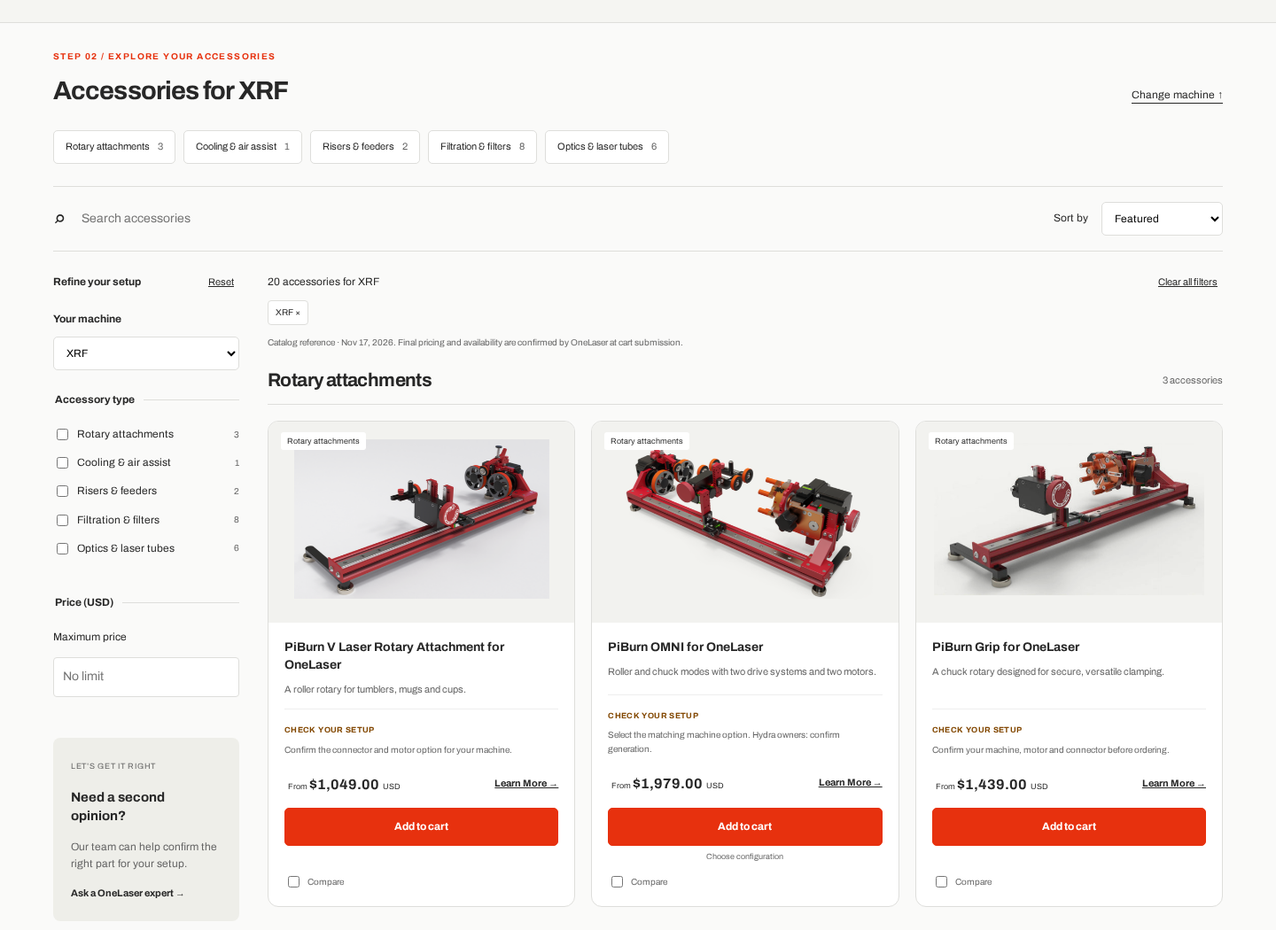
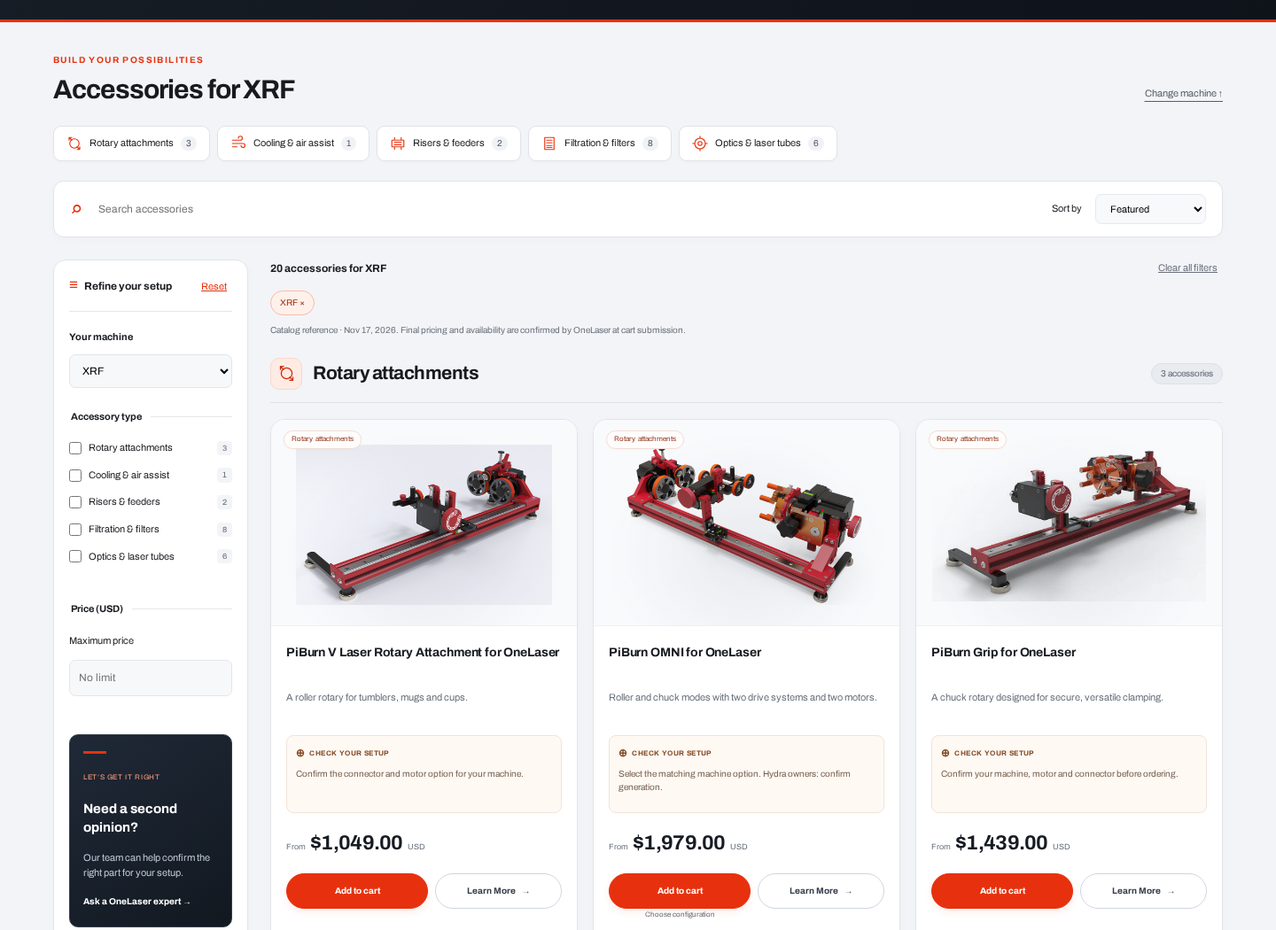
Refresh accessories UI with OneLaser brand, machine photography and richer product cards

diff --git a/assets/accessories-brand.css b/assets/accessories-brand.css
@@ -1,0 +1,12 @@
+:root{--ink:#171a1f;--muted:#626873;--line:#e4e6ea;--soft:#f3f4f7;--accent:#e7310e;--accent-deep:#c82709;--accent-soft:#fff0ea;--night:#11151c}
+body{background:#fff}.announcement{background:var(--night);font-size:11px;padding:8px 20px;letter-spacing:.04em}.announcement a{color:#ff9a7d}.header{padding:23px 40px;min-height:83px;border-bottom:1px solid #e6e8ec}.logo{display:inline-flex;align-items:center}.logo img{display:block;max-width:100%;height:auto}.header nav{font-size:13px;font-weight:700;gap:34px}.header nav a{position:relative}.header nav .active:after{content:'';position:absolute;bottom:-30px;left:0;right:0;height:3px;background:var(--accent);border-radius:2px}.header-help{background:var(--accent);color:#fff;padding:10px 18px;border:0;border-radius:30px;font-weight:700;box-shadow:0 4px 14px #e7310e22}.breadcrumb{padding-top:15px;padding-bottom:15px;color:#717782}.breadcrumb a{color:#3a3f47}.wrap{max-width:1360px}
+.machine-section{position:relative;overflow:hidden;background:radial-gradient(ellipse at 95% -30%,#9d2a1870,transparent 55%),linear-gradient(115deg,#171d26,#0e1219);padding:25px 0 22px;color:#fff;border-bottom:3px solid var(--accent)}.machine-section:before{content:'';position:absolute;width:300px;height:300px;right:4%;top:-235px;border:1px solid #ff7f4d25;border-radius:50%;box-shadow:0 0 0 40px #ff7f4d06,0 0 0 80px #ff7f4d05;pointer-events:none}.machine-section .wrap{position:relative}.machine-section .section-head{margin-bottom:18px}.machine-section .eyebrow{color:#ff987b;font-size:10px;letter-spacing:.17em;display:flex;align-items:center;gap:8px}.machine-section .eyebrow:before{content:'';width:6px;height:6px;border-radius:50%;background:#ff5c32;box-shadow:0 0 0 4px #ff5c3220}.machine-section h1{font-size:32px;color:#fff;letter-spacing:-.9px}.machine-section h1 span{color:#ff825f}.picker-intro{color:#b7bfca;font-size:12px;margin-top:8px}.machines{gap:11px;padding:2px 2px 8px;scrollbar-color:#606976 #ffffff08}.machine,.machine:first-child{position:relative;background:#232a35;border:1px solid #444b57;border-radius:12px;color:#f8f9fb;flex:1 0 0;min-width:182px;height:88px;min-height:88px;display:flex;align-items:center;padding:14px 12px;isolation:isolate;box-shadow:0 6px 16px #00000012;transition:background .2s,border-color .2s,transform .2s}.machine:hover{background:#303743;border-color:#fa8568;transform:translateY(-2px)}.machine strong{font-size:14px;margin-bottom:6px;color:#fff}.machine small{color:#b8c1ce;font-size:10px}.machine[aria-pressed=true]{background:linear-gradient(130deg,#df350f,#b5270d);border-color:#ff8e6f;box-shadow:0 0 0 1px #ff9e75,0 8px 20px #0003}.machine[aria-pressed=true] small{color:#ffe2d8}.machine[aria-pressed=true]:after{color:#fff;right:7px;top:3px;background:#fff2;width:16px;height:16px;border-radius:50%;line-height:16px;font-size:9px}.machine-photo{width:72px;height:62px;object-fit:contain;flex-shrink:0;order:2;margin-left:auto;filter:drop-shadow(0 4px 4px #0005);border-radius:4px}.machine-copy{display:block;position:relative;z-index:1;white-space:nowrap;min-width:90px}.machine::before{display:none}.machine:first-child::before{display:none}
+.catalog-section{background:#f3f4f7;padding:34px 0 64px}.catalog-section .eyebrow{font-size:10px;margin-bottom:7px}.catalog-section h2{font-size:30px;font-weight:700;letter-spacing:-1px}.catalog-section .section-head{margin-bottom:23px}#change-machine{font-size:11px;color:#555e6b}.category-nav{margin-bottom:22px;gap:8px}.category-nav a{display:flex;align-items:center;gap:8px;padding:10px 14px;border-radius:9px;border:1px solid #dfe3e9;font-size:11px;background:#fff;box-shadow:0 2px 3px #1d253004;transition:background .18s,box-shadow .18s}.category-nav a>svg{width:18px;height:18px;color:var(--accent);flex-shrink:0}.category-nav a>span{border-radius:20px;display:inline-block;background:#f0f2f5;padding:0 6px;font-size:10px;margin:0;color:#4e5764}.category-nav a:hover{background:#fff5f1;border-color:#ee9d89;text-decoration:none;box-shadow:0 4px 12px #e7310e0a}
+.toolbar{background:white;border:1px solid #e1e4e9;border-radius:12px;padding:12px 18px;box-shadow:0 3px 12px #1e273405;gap:15px}.search{flex:1}.search>span{color:var(--accent)}.search input{width:100%;max-width:470px;font-size:12px}.sort{font-size:11px}.sort select{border-color:#e6e9ee;background:#f8f9fb;font-size:11px;border-radius:7px;padding:9px 12px}.catalog-layout{grid-template-columns:220px minmax(0,1fr);gap:25px;padding-top:25px}#filters{align-self:start;background:#fff;border:1px solid #e1e4e9;border-radius:14px;padding:20px 17px;box-shadow:0 4px 15px #1c253204}.filter-heading{font-size:12px;border-bottom:1px solid var(--line);padding-bottom:17px;margin-bottom:20px}.filter-heading strong:before{content:'≡';color:var(--accent);font-size:17px;line-height:0;margin-right:7px}.filter-heading button{color:var(--accent)}.filter-label{font-size:11px}#machine-select{background:#f7f8fa;border-color:#e2e5ea;border-radius:7px}fieldset{margin-top:24px;padding-top:18px}legend{font-size:11px}fieldset label{font-size:11px;gap:8px}fieldset input[type=checkbox]{width:14px;height:14px;margin:0}fieldset label small{background:#f3f4f7;padding:1px 6px;border-radius:4px;font-size:9px}#max-price{font-size:12px;background:#f7f8fa;border-radius:7px}.help-card{position:relative;overflow:hidden;background:linear-gradient(145deg,#202937,#111820);color:#fff;border:1px solid #333d4b;border-radius:10px;padding:18px 15px;margin-top:22px}.help-card:before{content:'';width:26px;height:3px;background:var(--accent);display:block;margin-bottom:14px}.help-card span{color:#ff9c7e;font-size:8px}.help-card h3{font-size:15px}.help-card p{color:#bec7d3;font-size:11px}.help-card a{color:#fff;font-size:10px}.results-line{align-items:center;font-size:12px;margin:0 0 5px}.results-line p{font-weight:700}.results-line button{color:#69717c}.snapshot-note{font-size:10px;color:#68707b;margin:9px 0 23px}.chips button{background:#fff0ea;color:#a3290b;border-color:#f5bca9;padding:5px 10px;border-radius:20px}
+.category-group{margin-bottom:40px}.category-heading{border-bottom:1px solid #dce0e6;padding-bottom:14px;gap:12px;margin-bottom:18px}.category-icon{display:inline-flex;align-items:center;justify-content:center;width:36px;height:36px;flex-shrink:0;background:#ffebe3;color:#cd2d0c;border-radius:10px;border:1px solid #f7d8cd}.category-icon svg{width:21px;height:21px}.category-heading h3{font-size:21px;letter-spacing:-.5px;margin:0}.category-heading>span:last-child{margin-left:auto;background:#e8ebf0;border:1px solid #dce0e7;border-radius:20px;padding:3px 10px;font-size:10px;color:#5c6572}.product-grid{gap:17px}.product{border:1px solid #e1e5ea;border-radius:16px;background:white;box-shadow:0 5px 14px #16263b06;transition:transform .2s,box-shadow .2s,border-color .2s}.product:hover{border-color:#e99c86;box-shadow:0 10px 30px #28364812;transform:translateY(-3px)}.product-image{background:radial-gradient(ellipse at 50% 65%,#e8ebef,transparent 65%),#f9fafc;border-bottom:1px solid #eef0f4}.product-image img{height:225px;padding:28px 18px 16px;mix-blend-mode:multiply}.product-type{background:#fffdfb;color:#8f321a;box-shadow:0 1px 5px #11111105;border:1px solid #f0dcd5;border-radius:20px;padding:3px 8px;font-size:8px;letter-spacing:.01em}.product-body{padding:20px 17px 15px}.product h3{font-size:14px;line-height:1.45;letter-spacing:-.15px;min-height:42px}.product-description{font-size:11px;color:#69707c;line-height:1.65;min-height:36px;margin-bottom:16px}.compatibility{border:1px solid #f1e3d8;background:#fff9f4;border-radius:8px;padding:10px 10px 0;min-height:88px}.compatibility strong{color:#854a22;font-size:8px;letter-spacing:.05em;display:flex;align-items:center;gap:5px}.compatibility strong>span{font-size:12px}.compatibility p{font-size:10px;color:#745d4e;line-height:1.55;margin-top:5px;margin-bottom:10px}.product-bottom{margin-top:16px;margin-bottom:15px}.product-bottom .price{font-size:23px;color:#171c24;letter-spacing:-.7px}.product-bottom .price small{font-size:9px;color:#626b78;font-weight:400;letter-spacing:0;margin-left:0;margin-right:3px}.product-bottom .price small:last-child{margin-left:5px}.purchase-actions{display:grid;grid-template-columns:1.12fr 1fr;align-items:start;gap:8px}.quick-cart{margin:0;min-width:0}.quick-cart .button,.configure-cart{margin:0;border-radius:25px;height:40px;min-height:40px;font-size:10px;box-shadow:0 4px 8px #e7310e15;padding:9px 6px;letter-spacing:0}.configure-wrap{min-width:0;position:relative}.purchase-actions>.button{margin:0}.purchase-actions .learn-more{display:flex;justify-content:center;align-items:center;gap:7px;height:40px;border:1px solid #cfd5df;border-radius:25px;color:#343d49;font-size:10px;font-weight:700;white-space:nowrap;background:#fff;text-decoration:none}.purchase-actions .learn-more:hover{background:#f6f7fa;border-color:#7e8998}.options-note{position:absolute;top:41px;left:0;right:0;font-size:8px;margin:0;min-height:0;white-space:nowrap}.compare-check{margin-top:25px;color:#6c7582;font-size:10px}.compare-check input{margin:0 3px 0 0;width:13px;height:13px}.button.primary{background:var(--accent);border-color:var(--accent)}.button.primary:hover{background:var(--accent-deep)}
+.guidance{padding-top:60px;padding-bottom:60px;gap:80px}.guidance h2{font-size:32px;line-height:1.2}.faqs{background:#f7f8fa;border:1px solid #e3e7ed;border-radius:16px;padding:8px 24px}.faqs details,.faqs details:first-child{padding:17px 0}.faqs details:last-child{border-bottom:0}.faqs summary{font-size:12px}.faqs details[open] summary{color:#ca2b0d}.expert{position:relative;overflow:hidden;background:radial-gradient(ellipse at 90% 100%,#9c341f70,transparent 55%),#111820;border-top:3px solid var(--accent);padding:40px 0}.expert:after{content:'ONE';position:absolute;right:25%;bottom:-48px;font-size:190px;line-height:1;color:#ffffff03;font-weight:700;pointer-events:none}.expert .wrap{position:relative;z-index:1}.expert h2{font-size:34px}.expert .button{background:var(--accent);color:#fff;border-radius:30px;box-shadow:0 5px 25px #e7310e35}footer{color:#6e7682;padding-top:28px!important}dialog{border:1px solid #d9dfe7;box-shadow:0 24px 90px #0b142440;padding:30px;border-radius:20px}dialog::backdrop{background:#0c121eb3;backdrop-filter:blur(4px)}.dialog-head{padding-bottom:16px;border-bottom:1px solid #e6e9ef}.dialog-head h2{font-size:22px}.dialog-head button{background:#f1f3f6;width:32px;height:32px;border-radius:50%;font-size:16px}#variant-select,#cart-quantity{background:#f7f8fa;border-color:#dce1e9;border-radius:8px}#variant-note{background:#fff4ec;padding:12px;font-size:11px;border-radius:0 8px 8px 0}.compare-tray{background:#151d28;border:1px solid #48505c;box-shadow:0 8px 35px #11182735;border-radius:16px}.compare-tray .button{border-radius:25px}
+@media(max-width:1150px){.machine,.machine:first-child{flex:0 0 190px}.header nav{gap:22px}.catalog-layout{grid-template-columns:195px minmax(0,1fr);gap:20px}.product-grid{gap:13px}.product-image img{height:210px}.purchase-actions{grid-template-columns:1fr}.purchase-actions .learn-more{height:34px}.options-note{display:none}.compare-check{margin-top:16px}}
+@media(max-width:1050px){.header nav .active:after{bottom:-30px}.product-grid{grid-template-columns:repeat(2,minmax(0,1fr))}.purchase-actions{grid-template-columns:1.1fr 1fr}.purchase-actions .learn-more{height:40px}.options-note{display:block}.compare-check{margin-top:24px}}
+@media(max-width:650px){.header{min-height:67px;padding:18px 16px}.header .logo img{width:132px;height:auto}.header nav{font-size:10px;gap:13px}.header nav .active:after{bottom:-24px}.announcement{font-size:9px;letter-spacing:.02em;padding:7px 12px}.breadcrumb{padding-top:12px;padding-bottom:12px;font-size:10px}.machine-section{padding:21px 0 16px}.machine-section h1{font-size:27px;line-height:1.12;max-width:330px}.machine-section h1 span{display:block}.machine-section .eyebrow{font-size:8px;margin-bottom:10px}.picker-intro{font-size:11px;margin-top:10px}.machine-section .section-head{margin-bottom:17px}.machines{gap:9px}.machine,.machine:first-child{flex:0 0 181px;height:86px;min-height:86px;padding:12px}.machine-photo{width:68px;height:58px}.machine strong{font-size:13px}.machine small{font-size:9px}.catalog-section{padding-top:25px;padding-bottom:35px}.catalog-section h2{font-size:25px;letter-spacing:-.8px}.catalog-section .section-head{margin-bottom:16px}.catalog-section .eyebrow{font-size:8px}.category-nav{margin:0 0 17px;padding-bottom:9px;gap:7px}.category-nav a{font-size:10px;padding:9px 10px;gap:6px}.category-nav a>svg{width:16px;height:16px}.toolbar{padding:11px 12px;gap:9px}.search{flex-basis:100%;border-bottom:1px solid #edf0f4;padding-bottom:7px}.search input{font-size:12px;padding:6px}.mobile-filter{font-size:11px;padding:9px 14px;background:#202936;border-color:#202936;border-radius:7px;color:#fff}.sort{font-size:10px}.sort select{padding:8px;font-size:10px}.catalog-layout{grid-template-columns:1fr;padding-top:20px;gap:20px}#filters{padding:20px;width:100%}.results-line{font-size:11px}.snapshot-note{font-size:9px;line-height:1.6;margin-bottom:20px}.category-heading{gap:8px;margin-bottom:13px;padding-bottom:10px}.category-icon{width:30px;height:30px;border-radius:8px}.category-icon svg{width:18px;height:18px}.category-heading h3{font-size:17px}.category-heading>span:last-child{font-size:8px;padding:3px 7px}.product-grid{gap:10px}.product{border-radius:12px}.product-image img{height:160px;padding:32px 10px 13px}.product-type{font-size:7px;padding:2px 5px;left:7px;top:8px;max-width:94%}.product-body{padding:12px 10px}.product h3{font-size:12px;min-height:52px}.product-description{font-size:10px;min-height:50px;margin-bottom:12px}.compatibility{padding:8px 7px 0;min-height:105px;border-radius:6px}.compatibility strong{font-size:7px;letter-spacing:0;gap:3px}.compatibility p{font-size:9px;line-height:1.5}.product-bottom{margin-top:12px;margin-bottom:12px}.product-bottom .price{font-size:19px}.product-bottom .price small{font-size:8px}.product-bottom .price small:first-child{display:block;line-height:1.3}.product-bottom .price small:last-child{margin-left:4px}.purchase-actions{grid-template-columns:1fr;gap:7px}.quick-cart .button,.configure-cart{height:36px;min-height:36px;font-size:10px}.purchase-actions .learn-more{height:33px;font-size:10px}.options-note{display:none}.compare-check{margin-top:13px;font-size:9px}.guidance{padding-top:36px;padding-bottom:36px;gap:25px}.guidance h2{font-size:27px}.faqs{padding:4px 16px;border-radius:12px}.faqs summary{font-size:11px}.expert{padding:30px 0}.expert h2{font-size:28px}.expert .button{font-size:11px;padding:12px 18px}.expert:after{font-size:130px;right:0;bottom:-30px}dialog{padding:20px;border-radius:16px}.dialog-head h2{font-size:18px}.dialog-head button{flex-shrink:0}.compare-tray{border-radius:12px}.compare-tray .button{border-radius:20px}footer{gap:20px}footer .logo img{width:130px}}
+@media(prefers-reduced-motion:reduce){.machine,.product,.category-nav a{transition:none}.machine:hover,.product:hover{transform:none}}
+.category-heading>.category-icon{color:#cd2d0c;font-size:inherit}

diff --git a/accessories.html b/accessories.html
@@ -1,9 +1,9 @@
-<!doctype html><html lang="en"><head><meta charset="utf-8"><meta name="viewport" content="width=device-width, initial-scale=1"><title>Laser Accessories | OneLaser</title><meta name="description" content="Explore OneLaser rotaries, cooling, filtration and optics. Start with your machine and check setup requirements before you order."><link rel="stylesheet" href="assets/accessories.css"><script defer src="assets/accessories-data.js"></script><script defer src="assets/accessories.js"></script></head><body>
+<!doctype html><html lang="en"><head><meta charset="utf-8"><meta name="viewport" content="width=device-width, initial-scale=1"><title>Laser Accessories | OneLaser</title><meta name="description" content="Explore OneLaser rotaries, cooling, filtration and optics. Start with your machine and check setup requirements before you order."><link rel="stylesheet" href="assets/accessories.css"><link rel="stylesheet" href="assets/accessories-brand.css"><script defer src="assets/accessories-data.js"></script><script defer src="assets/accessories.js"></script></head><body>
 <a class="skip" href="#machine-picker">Skip to machine selection</a><div class="announcement">U.S. engineers. Lifetime support. <a href="https://www.1laser.com/pages/contact-us">Let's build your next upgrade →</a></div>
-<header class="header"><a class="logo" href="https://www.1laser.com" aria-label="OneLaser home">ONE<span>LASER</span><i>®</i></a><nav aria-label="Main navigation"><a href="https://www.1laser.com/collections/laser-engraving-cutting-marking-machines">Laser Machines</a><a class="active" href="accessories.html" aria-current="page">Accessories</a><a href="https://www.1laser.com/collections/materials-for-laser-engraving-cutting">Materials</a><a href="https://wiki.1laser.com">Support →</a></nav><a class="header-help" href="https://www.1laser.com/pages/contact-us">Talk to an expert →</a></header>
+<header class="header"><a class="logo" href="https://www.1laser.com" aria-label="OneLaser home"><img src="assets/onelaser-logo.svg" width="174" height="23" alt="OneLaser"></a><nav aria-label="Main navigation"><a href="https://www.1laser.com/collections/laser-engraving-cutting-marking-machines">Laser Machines</a><a class="active" href="accessories.html" aria-current="page">Accessories</a><a href="https://www.1laser.com/collections/materials-for-laser-engraving-cutting">Materials</a><a href="https://wiki.1laser.com">Support →</a></nav><a class="header-help" href="https://www.1laser.com/pages/contact-us">Talk to an expert →</a></header>
 <main><div class="wrap breadcrumb"><a href="https://www.1laser.com">Home</a><span>/</span> Accessories</div>
-<section class="machine-section" id="machine-picker"><div class="wrap"><div class="section-head"><div><p class="eyebrow">STEP 01 / CHOOSE YOUR ONELASER</p><h1>Which machine are you shopping for?</h1><p class="picker-intro">Start with your machine. Find your next upgrade.</p></div></div><div id="machines" class="machines" role="group" aria-label="Choose your machine"></div></div></section>
-<section class="catalog-section" id="catalog"><div class="wrap"><div class="section-head"><div><p class="eyebrow">STEP 02 / EXPLORE YOUR ACCESSORIES</p><h2 id="catalog-title">Accessories for your machine</h2></div><button id="change-machine" class="text-link">Change machine ↑</button></div><nav id="category-nav" class="category-nav" aria-label="Accessory categories"></nav><div class="toolbar"><label class="search"><span aria-hidden="true">⌕</span><input id="search" type="search" placeholder="Search accessories" aria-label="Search accessories"></label><button class="mobile-filter" id="filter-toggle" aria-expanded="false" aria-controls="filters">Filters +</button><label class="sort">Sort by <select id="sort"><option value="featured">Featured</option><option value="price-asc">Price: low to high</option><option value="price-desc">Price: high to low</option><option value="name">Name: A–Z</option></select></label></div><div class="catalog-layout"><aside id="filters"><div class="filter-heading"><strong>Refine your setup</strong><button data-reset>Reset</button></div><label class="filter-label" for="machine-select">Your machine</label><select id="machine-select"><option value="">All machines</option></select><fieldset><legend>Accessory type</legend><div id="categories"></div></fieldset><fieldset><legend>Price (USD)</legend><label for="max-price">Maximum price</label><input id="max-price" type="number" min="0" step="1" placeholder="No limit"><p class="fine" id="price-error" role="status"></p></fieldset><div class="help-card"><span>LET’S GET IT RIGHT</span><h3>Need a second opinion?</h3><p>Our team can help confirm the right part for your setup.</p><a href="https://www.1laser.com/pages/contact-us">Ask a OneLaser expert →</a></div></aside><div><div class="results-line"><p id="count" role="status" aria-live="polite"></p><button data-reset>Clear all filters</button></div><div id="chips" class="chips"></div><p class="snapshot-note">Catalog reference · Nov 17, 2026. Final pricing and availability are confirmed by OneLaser at cart submission.</p><div id="products" class="product-grid"></div><div id="empty" hidden><h3>No accessories match this setup.</h3><p>Try another category or remove a filter.</p><button class="button primary" data-reset>Reset filters</button></div><noscript><p>Enable JavaScript to filter this collection, or <a href="https://www.1laser.com/collections/laser-accessories">browse all accessories on OneLaser</a>.</p></noscript></div></div></div></section>
+<section class="machine-section" id="machine-picker"><div class="wrap"><div class="section-head"><div><p class="eyebrow">ONELASER ACCESSORIES</p><h1>Your machine. <span>Your next upgrade.</span></h1><p class="picker-intro">Choose your OneLaser to explore its accessories.</p></div></div><div id="machines" class="machines" role="group" aria-label="Choose your machine"></div></div></section>
+<section class="catalog-section" id="catalog"><div class="wrap"><div class="section-head"><div><p class="eyebrow">BUILD YOUR POSSIBILITIES</p><h2 id="catalog-title">Accessories for your machine</h2></div><button id="change-machine" class="text-link">Change machine ↑</button></div><nav id="category-nav" class="category-nav" aria-label="Accessory categories"></nav><div class="toolbar"><label class="search"><span aria-hidden="true">⌕</span><input id="search" type="search" placeholder="Search accessories" aria-label="Search accessories"></label><button class="mobile-filter" id="filter-toggle" aria-expanded="false" aria-controls="filters">Filters +</button><label class="sort">Sort by <select id="sort"><option value="featured">Featured</option><option value="price-asc">Price: low to high</option><option value="price-desc">Price: high to low</option><option value="name">Name: A–Z</option></select></label></div><div class="catalog-layout"><aside id="filters"><div class="filter-heading"><strong>Refine your setup</strong><button data-reset>Reset</button></div><label class="filter-label" for="machine-select">Your machine</label><select id="machine-select"><option value="">All machines</option></select><fieldset><legend>Accessory type</legend><div id="categories"></div></fieldset><fieldset><legend>Price (USD)</legend><label for="max-price">Maximum price</label><input id="max-price" type="number" min="0" step="1" placeholder="No limit"><p class="fine" id="price-error" role="status"></p></fieldset><div class="help-card"><span>LET’S GET IT RIGHT</span><h3>Need a second opinion?</h3><p>Our team can help confirm the right part for your setup.</p><a href="https://www.1laser.com/pages/contact-us">Ask a OneLaser expert →</a></div></aside><div><div class="results-line"><p id="count" role="status" aria-live="polite"></p><button data-reset>Clear all filters</button></div><div id="chips" class="chips"></div><p class="snapshot-note">Catalog reference · Nov 17, 2026. Final pricing and availability are confirmed by OneLaser at cart submission.</p><div id="products" class="product-grid"></div><div id="empty" hidden><h3>No accessories match this setup.</h3><p>Try another category or remove a filter.</p><button class="button primary" data-reset>Reset filters</button></div><noscript><p>Enable JavaScript to filter this collection, or <a href="https://www.1laser.com/collections/laser-accessories">browse all accessories on OneLaser</a>.</p></noscript></div></div></div></section>
 <section class="wrap guidance"><div><p class="eyebrow">A LITTLE GUIDANCE GOES A LONG WAY</p><h2>Right accessory.<br>Ready for your next project.</h2><p>Check these details before you order.</p><a class="text-link" href="https://wiki.1laser.com">Explore the knowledge base →</a></div><div class="faqs"><details><summary>How do I check compatibility?</summary><p>Start with your machine family, then confirm the exact model, generation, laser source and connector on the product page. For a replacement part, have your serial number ready when contacting support.</p></details><details><summary>Does every laser need a water chiller?</summary><p>Cooling requirements depend on the laser source and configuration. Glass-tube CO₂ systems and RF systems have different needs. Check your machine documentation before selecting a chiller.</p></details><details><summary>What do I need for the XRF conveyor feeder?</summary><p>The collection lists the Base Boost riser base as a requirement. Check the feeder product page for the complete setup and current compatibility.</p></details><details><summary>Which replacement filter should I buy?</summary><p>Match the exact FiltraBox unit, generation and filter stage. A machine-family match alone does not identify the correct replacement filter.</p></details></div></section>
-<section class="expert"><div class="wrap"><div><p class="eyebrow">ENGINEERS ON YOUR SIDE</p><h2>Let’s complete your setup.</h2><p>Tell us your machine and what you want to make.</p></div><a class="button" href="https://www.1laser.com/pages/contact-us">Talk to an expert →</a></div></section></main><footer class="wrap"><a class="logo" href="https://www.1laser.com">ONE<span>LASER</span></a><p>U.S. engineers. Lifetime support.</p><a href="https://www.1laser.com/policies/privacy-policy">Privacy policy</a><small>© 2026 OneLaser</small></footer>
+<section class="expert"><div class="wrap"><div><p class="eyebrow">ENGINEERS ON YOUR SIDE</p><h2>Let’s complete your setup.</h2><p>Tell us your machine and what you want to make.</p></div><a class="button" href="https://www.1laser.com/pages/contact-us">Talk to an expert →</a></div></section></main><footer class="wrap"><a class="logo" href="https://www.1laser.com"><img src="assets/onelaser-logo.svg" width="150" height="20" alt="OneLaser"></a><p>U.S. engineers. Lifetime support.</p><a href="https://www.1laser.com/policies/privacy-policy">Privacy policy</a><small>© 2026 OneLaser</small></footer>
 <div class="compare-tray" id="compare-tray" hidden><span id="compare-count" role="status"></span><button id="open-compare" class="button primary">Compare accessories →</button><button id="clear-compare">Clear</button></div><dialog id="compare-dialog" aria-labelledby="compare-title"><div class="dialog-head"><h2 id="compare-title">Find your next upgrade</h2><button id="close-compare" aria-label="Close comparison">✕</button></div><div class="table-scroll"><table id="compare-table"></table></div><p class="fine">Comparison is a guide. Confirm exact configuration and current pricing on the product page.</p></dialog><dialog id="variant-dialog" aria-labelledby="variant-title"><div class="dialog-head"><h2 id="variant-title">Choose your configuration</h2><button type="button" id="close-variant" aria-label="Close configuration">✕</button></div><h3 id="variant-product"></h3><p id="variant-note" class="fine"></p><form id="variant-form" method="post" action="https://www.1laser.com/cart/add"><label for="variant-select">Configuration</label><select id="variant-select" name="id" required><option value="">Select a configuration</option></select><label for="cart-quantity">Quantity</label><input id="cart-quantity" name="quantity" type="number" min="1" max="99" value="1" required><input name="return_to" type="hidden" value="/cart"><p id="variant-price" role="status"></p><p class="fine">Confirm your machine, connector and required accessories before adding. You’ll continue to your OneLaser cart.</p><button class="button primary" type="submit">Add to cart →</button><a id="variant-learn" class="text-link">Learn More</a></form></dialog></body></html>

diff --git a/assets/accessories.js b/assets/accessories.js
@@ -2,6 +2,9 @@
 'use strict';
 const products=window.ACCESSORIES||[];
 const models=['XRF','Cobra Series','Hydra Gen2','VertiGo','XT','Hydra Gen1'];
+const machineImages=Object.fromEntries(models.map((m,i)=>[m,`assets/accessories-images/machine-${i+1}.png`]));
+const categoryIcons=['<circle cx="12" cy="12" r="7"/><path d="M8 3H4v4m0-4 4 4m8 14h4v-4m0 4-4-4"/>','<path d="M3 7h12a3 3 0 1 0-3-3M3 12h16a3 3 0 1 1-3 3M3 17h7"/>','<path d="M3 7h18v10H3zM7 10h10M7 14h10M7 3v4m10-4v4M7 17v4m10-4v4"/>','<path d="M5 3h14v18H5zM8 7h8M8 11h8M8 15h8M8 18h8"/>','<circle cx="12" cy="12" r="8"/><circle cx="12" cy="12" r="3"/><path d="M12 1v3m0 16v3M1 12h3m16 0h3"/>'];
+const icon=i=>`<svg viewBox="0 0 24 24" width="24" height="24" fill="none" stroke="currentColor" stroke-width="1.5" stroke-linecap="round" stroke-linejoin="round" aria-hidden="true">${categoryIcons[i]}</svg>`;
 const types=['Rotary attachments','Cooling & air assist','Risers & feeders','Filtration & filters','Optics & laser tubes'];
 const $=s=>document.querySelector(s);
 const escape=s=>String(s).replace(/[&<>"']/g,c=>({'&':'&amp;','<':'&lt;','>':'&gt;','"':'&quot;',"'":'&#39;'}[c]));
@@ -14,21 +17,21 @@ function filtered(ignoreCategory=false){return products.filter(p=>(!state.machin
 function render(){
  $('#catalog-title').textContent=state.machine?'Accessories for '+state.machine:'All OneLaser accessories';
  $('#search').value=state.q;$('#sort').value=state.sort;$('#machine-select').value=state.machine;$('#max-price').value=state.max;
- $('#machines').innerHTML=models.map(m=>`<button class="machine" data-machine="${escape(m)}" aria-pressed="${state.machine===m}"><strong>${escape(m||'All machines')}</strong><small>${products.filter(p=>!m||p.machines.includes(m)).length} accessories to explore</small></button>`).join('');
+ $('#machines').innerHTML=models.map(m=>`<button class="machine" data-machine="${escape(m)}" aria-pressed="${state.machine===m}"><img class="machine-photo" src="${machineImages[m]}" width="88" height="64" alt=""><span class="machine-copy"><strong>${escape(m)}</strong><small>${products.filter(p=>!m||p.machines.includes(m)).length} accessories</small></span></button>`).join('');
  $('#categories').innerHTML=types.map(c=>`<label><input type="checkbox" value="${escape(c)}" ${state.categories.includes(c)?'checked':''}>${escape(c)}<small>${filtered(true).filter(p=>p.category===c).length}</small></label>`).join('');
  let list=filtered();if(state.sort==='price-asc')list.sort((a,b)=>a.price-b.price);if(state.sort==='price-desc')list.sort((a,b)=>b.price-a.price);if(state.sort==='name')list.sort((a,b)=>a.title.localeCompare(b.title));
  $('#count').textContent=`${list.length} ${list.length===1?'accessory':'accessories'}${state.machine?' for '+state.machine:''}`;
  const chips=[...(state.machine?[['machine',state.machine]]:[]),...state.categories.map(c=>['category',c]),...(state.q?[['q',state.q]]:[]),...(state.max!==''?[['max','Up to '+money(state.max)]]:[])];
  $('#chips').innerHTML=chips.map(([k,v])=>`<button data-remove="${k}" data-value="${escape(v)}" aria-label="Remove ${escape(v)} filter">${escape(v)} ×</button>`).join('');
- function card(p){const i=products.indexOf(p);return `<article class="product"><div class="product-image"><span class="product-type">${escape(p.category)}</span><a href="${escape(p.url)}"><img src="${escape(p.image)}" width="360" height="220" loading="lazy" alt="${escape(p.title)}"></a></div><div class="product-body"><h3><a href="${escape(p.url)}">${escape(p.title)}</a></h3><p class="product-description">${escape(p.description)}</p><div class="compatibility"><strong>Check your setup</strong><p>${escape(p.note||'Confirm your exact model and configuration before ordering.')}</p></div><div class="product-bottom"><span class="price"><small>From </small>${money(p.price)}<small>USD</small></span><a href="${escape(p.url)}" aria-label="View details for ${escape(p.title)}">Learn More →</a></div>${cartButton(p,i)}<label class="compare-check"><input type="checkbox" data-compare="${i}" ${selected.has(i)?'checked':''} ${selected.size>=3&&!selected.has(i)?'disabled':''}>Compare${selected.size>=3&&!selected.has(i)?' (max 3)':''}</label></div></article>`;}
- $('#products').innerHTML=types.map((type,i)=>{const group=list.filter(p=>p.category===type);return group.length?`<section class="category-group" id="category-${i}" aria-labelledby="category-title-${i}"><div class="category-heading"><h3 id="category-title-${i}">${escape(type)}</h3><span>${group.length} accessories</span></div><div class="product-grid">${group.map(card).join('')}</div></section>`:'';}).join('');
- $('#category-nav').innerHTML=types.map((type,i)=>{const n=list.filter(p=>p.category===type).length;return n?`<a href="#category-${i}">${escape(type)} <span>${n}</span></a>`:'';}).join('');
+ function card(p){const i=products.indexOf(p);return `<article class="product"><div class="product-image"><span class="product-type">${escape(p.category)}</span><a href="${escape(p.url)}"><img src="${escape(p.image)}" width="360" height="220" loading="lazy" alt="${escape(p.title)}"></a></div><div class="product-body"><h3><a href="${escape(p.url)}">${escape(p.title)}</a></h3><p class="product-description">${escape(p.description)}</p><div class="compatibility"><strong><span aria-hidden="true">⊕</span> Check your setup</strong><p>${escape(p.note||'Confirm your exact model and configuration before ordering.')}</p></div><div class="product-bottom"><span class="price"><small>From </small>${money(p.price)}<small>USD</small></span></div><div class="purchase-actions">${cartButton(p,i)}<a class="learn-more" href="${escape(p.url)}" aria-label="Learn more about ${escape(p.title)}">Learn More <span aria-hidden="true">→</span></a></div><label class="compare-check"><input type="checkbox" data-compare="${i}" ${selected.has(i)?'checked':''} ${selected.size>=3&&!selected.has(i)?'disabled':''}>Compare${selected.size>=3&&!selected.has(i)?' (max 3)':''}</label></div></article>`;}
+ $('#products').innerHTML=types.map((type,i)=>{const group=list.filter(p=>p.category===type);return group.length?`<section class="category-group" id="category-${i}" aria-labelledby="category-title-${i}"><div class="category-heading"><span class="category-icon">${icon(i)}</span><h3 id="category-title-${i}">${escape(type)}</h3><span>${group.length} accessories</span></div><div class="product-grid">${group.map(card).join('')}</div></section>`:'';}).join('');
+ $('#category-nav').innerHTML=types.map((type,i)=>{const n=list.filter(p=>p.category===type).length;return n?`<a href="#category-${i}">${icon(i)}${escape(type)} <span>${n}</span></a>`:'';}).join('');
  $('#empty').hidden=list.length>0;$('#compare-tray').hidden=!selected.size;$('#compare-count').textContent=`${selected.size}/3 selected`;$('#open-compare').disabled=selected.size<2;
 }
 function cartButton(p,i){
  const vs=p.variants||[];
  if(vs.length===1&&vs[0].available)return `<form class="quick-cart" method="post" action="https://www.1laser.com/cart/add"><input type="hidden" name="id" value="${escape(vs[0].id)}"><input type="hidden" name="quantity" value="1"><input type="hidden" name="return_to" value="/cart"><button class="button primary" type="submit">Add to cart</button></form>`;
- if(vs.some(v=>v.available))return `<button class="button primary configure-cart" type="button" data-configure="${i}" aria-haspopup="dialog">Add to cart</button><small class="options-note">Choose configuration</small>`;
+ if(vs.some(v=>v.available))return `<div class="configure-wrap"><button class="button primary configure-cart" type="button" data-configure="${i}" aria-haspopup="dialog">Add to cart</button><small class="options-note">Choose configuration</small></div>`;
  return `<button class="button primary configure-cart" type="button" disabled>Unavailable</button>`;
 }
 function update(){sync();render();}

diff --git a/docs/accessories-design-requirements.zh-CN.md b/docs/accessories-design-requirements.zh-CN.md
@@ -47,9 +47,16 @@
 
 ## 5. 品牌视觉规范
 
-直接读取官网 CSS：Archivo 正文/标题字体，字重 400/700；主按钮 RGB 231,49,14，即 `#E7310E`；白背景、深灰文字。官网卡片为约 18px 圆角。本页采用 9–18px 圆角、细灰分隔线、浅暖灰商品底色，以主色突出操作与选中态。仓库黑五页使用的 `#F5222D` 为活动配色，本配件页优先采用官网常规按钮色。
+2026-11-17 重新检查 [OneLaser 首页](https://www.1laser.com/)、[xTool 配件页](https://www.xtool.com/collections/accessory) 和 [WeCreat 配件页](https://wecreat.com/collections/accessories) 的实际浏览器截图。OneLaser 首页采用橙红操作色、黑白强对比、Archivo 字体、圆角按钮与设备实物图。xTool 配件目录的灰底白卡与大图层级、WeCreat 的清晰图片/名称/价格顺序可借鉴。以下调整是视觉设计选择，未经转化率实验验证。
 
-内容宽度上限 1320px；桌面 210px 侧栏 + 3 列商品，平板 2 列；手机 2 列商品、可展开筛选，窄屏减少导航项目。首屏不使用自动播放、虚构场景图或竞品资产。当前 logo 为文字品牌呈现，正式主题接入应直接使用现有 header 与原版 logo。
+- 主色沿用 `#E7310E`；深色区域采用 `#11151C`，目录背景采用 `#F3F4F7`，浅橙 `#FFF0EA` 用于选中标签与分类图标。白色产品卡与浅灰背景建立层级，避免整页只有细线和白底。
+- 使用官网原版 SVG Logo、Archivo 400/700 和六个真实机型缩略图。图片只来自 OneLaser；机型图片来源记录于 `docs/accessories-machine-image-sources.json`。系列图以具体机型作代表，不表示系列所有型号外观相同。
+- 首个模块仍为选机区：深色背景、有限橙红光晕、橙红分隔线、图文同排的六个机型卡片；卡片高度为桌面 88px、手机 86px，不换行，超宽左右滚动。选中机型以橙红底与勾选提示区别。
+- 分类导航增加 SVG 用途图标与数量圆角标签；筛选栏采用独立白色容器；专家帮助卡采用与选机栏呼应的深色背景。
+- 商品卡采用 16px 圆角、大幅真实产品图、用途标签、独立浅橙兼容提示、突出价格和双操作按钮。桌面端橙红 Add to cart 与描边 Learn More 并排，窄屏上下排列，避免挤压文字。悬停有轻微阴影和位移，reduced-motion 下关闭位移。
+- FAQ 采用浅灰圆角容器；页尾专家模块沿用深色与橙红 CTA，形成完整品牌层级。仍不在选机前添加营销大图、促销倒计时，也不恢复用户已移除的辅助文案。
+
+视觉覆盖样式独立保存为 `assets/accessories-brand.css`，便于调整品牌样式而不改动购物交互。正式主题接入时复用官网 header/footer、实时数据和本地化；本页当前保留独立预览导航。
 
 ## 6. 数据、性能和无障碍要求
 
@@ -89,3 +96,5 @@
 交互回归脚本：`tests/accessories.cjs`。在已安装 Playwright/Chromium 的环境启动上述本地服务器后，执行 `node tests/accessories.cjs`；可通过 `ACCESSORIES_BASE_URL` 指定其他本地测试地址。脚本拦截加购表单，并生成 preview/ 截图，不执行真实加购。
 
 布局补充：移除选机模块右上咨询链接、底部查看全部及两段提示；六个机型保持同一行，桌面等分、手机横向滚动，卡片高度小于 100px，减少首屏占用。产品卡片仍按类别展示，保留 Add to cart 与 Learn More。
+
+视觉更新验证：真实 Logo、六个机型缩略图、用途图标、桌面双按钮与手机堆叠按钮纳入截图检查；375/390/768/1440px 仍不发生页面横向溢出。机型单行、默认全目录和加购表单检查通过。preview/ 增加手机商品目录截图。
